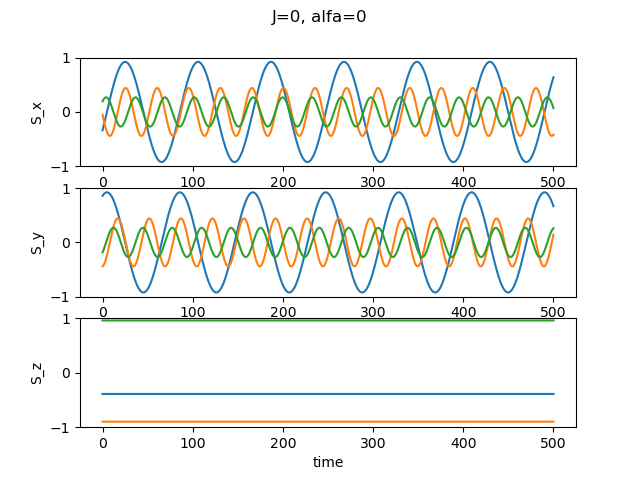
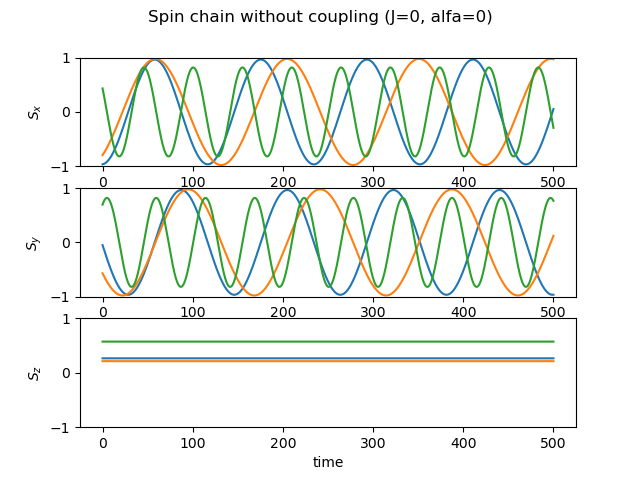
cleaned up

diff --git a/SpinChain.py b/SpinChain.py
@@ -63,7 +63,8 @@ def magnon(N,h,T,mu,gamma,alfa,Hj,J,B10,dz,plotfile,animationfile,B,plotTitle):
     plotXYZvsTime(SMag,tMag,plotfile," (J="+str(J)+", alfa="+str(alfa)+")",plotTitle)
 
 
-tenSpins=initSpins(10)
+
+
 #print(spinsWithTilt)
 #print(tenSpins)
 
@@ -74,28 +75,24 @@ print(lengths)
 """
 
 """GROUND STATES"""
-# tenSpins=initSpins(10)
-# S10,t10=HeunMethod(h,tenSpins,T,mu,gamma,alfa,Hj,J,B10,dz)
+tenSpins=initSpins(10)
+tenSpins=initSpins(10) 
 
 
-# plotXYZvsTime(S10,t10,"Jpos"," (J="+str(J)+", alfa="+str(alfa)+")","Ferromagnetic spins")
-# plotXYZvsTime(S10,t10,"Jneg"," (J="+str(J)+", alfa="+str(alfa)+")","Anti-ferromagnetic spins")
+# groundState(N,h,1000,mu,gamma,alfa,Hj,J,dz,B10) 
+# groundState(N,h,1000,mu,gamma,alfa,Hj,-J,dz,B10)
 
-groundState(N,h,500,mu,gamma,alfa,Hj,J,dz,B10)
-groundState(N,h,500,mu,gamma,alfa,Hj,-J,dz,B10)
+"""MAGNON"""
+Jmag=0
+alfaMag=0
+S1=initSpins(3)
+SMag,tMag=HeunMethod(h,S1,500,mu,gamma,alfaMag,Hj,Jmag,B10,dz)
+plotXYZvsTime(SMag,tMag,"MagnonTest"," (J="+str(Jmag)+", alfa="+str(alfaMag)+")","Spin chain without coupling")
 
-# """MAGNON"""
-
-# S1=initSpins(3)
-# print(S1)
-
-# SMag,tMag=HeunMethod(h,S1,T,mu,gamma,0,Hj,0,B10,dz)
-# plotXYZvsTime(SMag,tMag,"MagnonTest"," (J="+str(J)+", alfa="+str(alfa)+")","Spin chain")
-
-# #tilt 1st spin
-# spinsWithTilt=initTiltedSpin(10)
-# SMagTilt,tMagTilt=HeunMethod(h,spinsWithTilt,T,mu,gamma,0,Hj,0,B10,dz)
-# plotXYZvsTime(SMag,tMag,plotfile," (J="+str(J)+", alfa="+str(alfa)+")",plotTitle)
+#tilt 1st spins DELETE??
+spinsWithTilt=initTiltedSpin(10)
+SMagTilt,tMagTilt=HeunMethod(h,spinsWithTilt,1000,mu,gamma,alfaMag,Hj,Jmag,B10,dz)
+plotXYZvsTime(SMag,tMag,"MagnonTestTilt"," (J="+str(Jmag)+", alfa="+str(alfaMag)+")","Spin chain without coupling")
 
 
 
